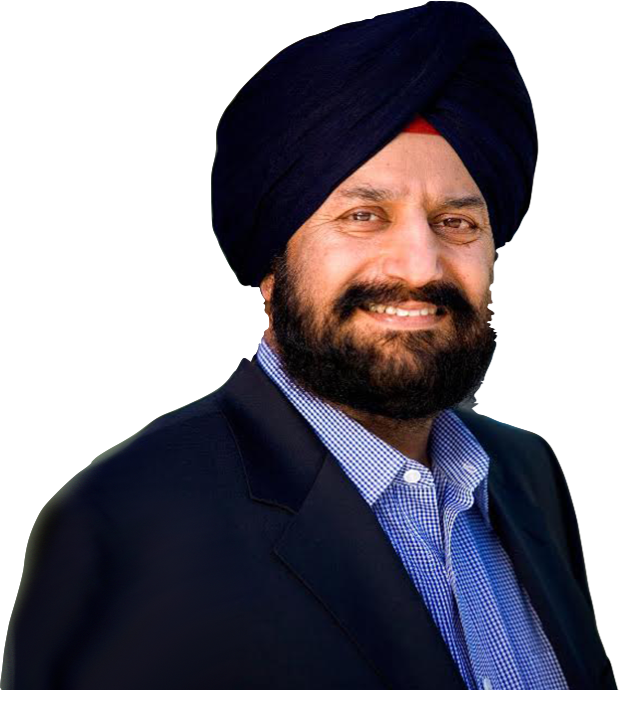
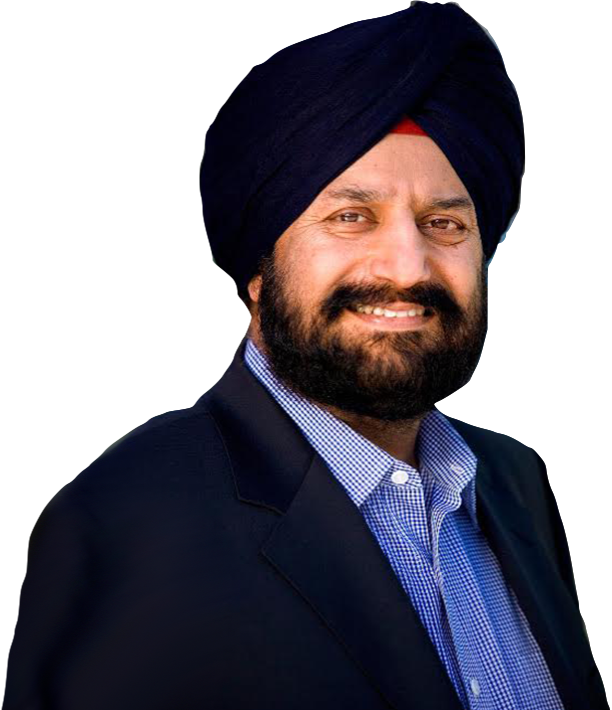
Fixed photo

diff --git a/ssc/ssc.html b/ssc/ssc.html
@@ -28,7 +28,7 @@
        .title {
             color: #fff;
             margin-top: 10px;
-            font-size: 30px;
+            font-size: 28px;
             margin-bottom: 5px;
         }
         .col-xs-4 {
@@ -51,6 +51,7 @@
             padding: 15px;
             padding-bottom: 0;
             padding-top: 0;
+            padding-right: 0;
             background-color: #892522;
         }
         .work-div {
@@ -129,19 +130,19 @@
 <body>
     <div class="subtitle-div">
         <div class="row" style="border-bottom:3px solid #144572;">
-            <div class="col-xs-8" style="padding-left: 15px;">
+            <div class="col-xs-8" id="subtitle-wrd" style="padding-left: 15px; padding-right: 0;">
                 <div class="title-div" style="margin-bottom: 10px;">
                     <p class="title lead sansserif">Satjiv S. Chahil</p>
                 </div>
-                <div class="col-xs-9 banner lighter-text" style=" padding: 0; margin-bottom:2px;">
+                <div class="col-xs-12 banner lighter-text" style=" padding: 0; margin-bottom:2px;">
                     <div>Global Marketing & Innovations Advisory Services</div>
                 </div>
-                <div class="col-xs-9 location-text lighter-text" style="padding: 0; margin-bottom:8px;">
+                <div class="col-xs-12 location-text lighter-text" style="padding: 0; margin-bottom:8px;">
                     <em>Silicon Valley, California</em>
                 </div>
             </div>
-            <div class="col-xs-4" style="padding-bottom:0;">
-                 <img src="photo1.png" style="background: transparent; width: 100%; margin-bottom:0;" alt="SatjivPhoto"/>
+            <div class="col-xs-3" id="subtitle-img" style="padding-bottom:0;">
+                 <img src="photo1.png" style="bottom: 0; left: 0; position: absolute; background: transparent; width: 100%; margin-bottom:0;" alt="SatjivPhoto"/>
             </div>
         </div>
     </div>
@@ -162,15 +163,15 @@
             <button class="btn btn-default work-btn wb-five" type="button" aria-haspopup="true" aria-expanded="false">
                 <span class="glyphicon glyphicon-asterisk" aria-hidden="true"></span>
             </button>
-            <!-- <button class="btn btn-default work-btn wb-six" type="button" aria-haspopup="true" aria-expanded="false">
-                <span class="glyphicon glyphicon-asterisk" aria-hidden="true"></span>
+            <button class="btn btn-default work-btn wb-six" type="button" aria-haspopup="true" aria-expanded="false">
+                <span class="glyphicon glyphicon-phone-alt" aria-hidden="true"></span>
             </button>
             <button class="btn btn-default work-btn wb-seven" type="button" aria-haspopup="true" aria-expanded="false">
-                <span class="glyphicon glyphicon-asterisk" aria-hidden="true"></span>
+                <span class="glyphicon glyphicon-info-sign" aria-hidden="true"></span>
             </button>
             <button class="btn btn-default work-btn wb-eight" type="button" aria-haspopup="true" aria-expanded="false">
                 <span class="glyphicon glyphicon-asterisk" aria-hidden="true"></span>
-            </button> -->
+            </button>
         <!-- </div> -->
     </div>
     <div class="icons-div">
@@ -387,22 +388,27 @@
                 setTimeout(function(){$panel.parent().slideDown()}, 401);
             }
         });
-        $('.wb-one').css({'left': ($(window).width() - $('.wb-one').width()) * (1/5)});
-        $('.wb-two').css({'left': ($(window).width() - $('.wb-two').width()) * ((1/5)*2)});
-        $('.wb-three').css({'left': ($(window).width() - $('.wb-three').width()) * ((1/5)*3)});
-        $('.wb-four').css({'left': ($(window).width() - $('.wb-four').width()) * ((1/5)*4)});
-        $('.wb-five').css({'left': ($(window).width() - $('.wb-five').width()) * ((1/5)*5)});
-        // $('.wb-six').css({'left': ($(window).width() - $('.wb-one').width()) * (-(1/6))});
-        // $('.wb-seven').css({'left': ($(window).width() - $('.wb-one').width()) * ((1/6)*6)});
-        // $('.wb-eight').css({'left': ($(window).width() - $('.wb-one').width()) * (0)});
+        if ($('#subtitle-wrd').height() != $('#subtitle-img').height()) {
+            $('#subtitle-img').css({'height': $('#subtitle-wrd').height()});
+            // $('#subtitle-wrd').css({'height': $('#subtitle-img').height()});
+
+        }
+        $('.wb-one').css({'left': ($(window).width() - $('.wb-one').width()) * (1/6)});
+        $('.wb-two').css({'left': ($(window).width() - $('.wb-two').width()) * ((1/6)*2)});
+        $('.wb-three').css({'left': ($(window).width() - $('.wb-three').width()) * ((1/6)*3)});
+        $('.wb-four').css({'left': ($(window).width() - $('.wb-four').width()) * ((1/6)*4)});
+        $('.wb-five').css({'left': ($(window).width() - $('.wb-five').width()) * ((1/6)*5)});
+        $('.wb-six').css({'left': ($(window).width() - $('.wb-one').width()) * ((1/6)*6)});
+        $('.wb-seven').css({'left': '0px'});
+        $('.wb-eight').css({'left': '-49px'});
         scrollOne();
         scrollTwo();
         scrollThree();
         scrollFour();
         scrollFive();
-        // scrollSix();
-        // scrollSeven();
-        // scrollEight();
+        scrollSix();
+        scrollSeven();
+        scrollEight();
         function scroll(e) {
             var $moveable = e;
             if ($moveable.position().left < $(window).width()) {
@@ -419,7 +425,7 @@
             var $moveable = $('.wb-one');
             if ($moveable.position().left < $(window).width()) {
                 $moveable.css({'visibility': 'visible'});
-                $moveable.animate({'left': '+=' + $(window).width()/5 + 'px'}, 1000, "linear", scrollOne);
+                $moveable.animate({'left': '+=' + $(window).width()/6 + 'px'}, 1000, "linear", scrollOne);
             }
             else {
                 $moveable.css({'visibility': 'hidden'});
@@ -431,7 +437,7 @@
             var $moveable = $('.wb-two');
             if ($moveable.position().left < $(window).width()) {
                 $moveable.css({'visibility': 'visible'});
-                $moveable.animate({'left': '+=' + $(window).width()/5 + 'px'}, 1000, "linear", scrollTwo);
+                $moveable.animate({'left': '+=' + $(window).width()/6 + 'px'}, 1000, "linear", scrollTwo);
             }
             else {
                 $moveable.css({'visibility': 'hidden'});
@@ -443,7 +449,7 @@
             var $moveable = $('.wb-three');
             if ($moveable.position().left < $(window).width()) {
                 $moveable.css({'visibility': 'visible'});
-                $moveable.animate({'left': '+=' + $(window).width()/5 + 'px'}, 1000, "linear", scrollThree);
+                $moveable.animate({'left': '+=' + $(window).width()/6 + 'px'}, 1000, "linear", scrollThree);
             }
             else {
                 $moveable.css({'visibility': 'hidden'});
@@ -455,7 +461,7 @@
             var $moveable = $('.wb-four');
             if ($moveable.position().left < $(window).width()) {
                 $moveable.css({'visibility': 'visible'});
-                $moveable.animate({'left': '+=' + $(window).width()/5 + 'px'}, 1000, "linear", scrollFour);
+                $moveable.animate({'left': '+=' + $(window).width()/6 + 'px'}, 1000, "linear", scrollFour);
             }
             else {
                 $moveable.css({'visibility': 'hidden'});
@@ -467,7 +473,7 @@
             var $moveable = $('.wb-five');
             if ($moveable.position().left < $(window).width()) {
                 $moveable.css({'visibility': 'visible'});
-                $moveable.animate({'left': '+=' + $(window).width()/5 + 'px'}, 1000, "linear", scrollFive);
+                $moveable.animate({'left': '+=' + $(window).width()/6 + 'px'}, 1000, "linear", scrollFive);
             }
             else {
                 $moveable.css({'visibility': 'hidden'});
@@ -476,10 +482,10 @@
             }
         }
         function scrollSix() {
-            var $moveable = $('.wb-one');
+            var $moveable = $('.wb-six');
             if ($moveable.position().left < $(window).width()) {
                 $moveable.css({'visibility': 'visible'});
-                $moveable.animate({'left': $(window).width()/5 + 'px'}, 1000, "linear", scrollSix);
+                $moveable.animate({'left': '+=' + $(window).width()/6 + 'px'}, 1000, "linear", scrollSix);
             }
             else {
                 $moveable.css({'visibility': 'hidden'});
@@ -488,10 +494,10 @@
             }
         }
         function scrollSeven() {
-            var $moveable = $('.wb-one');
+            var $moveable = $('.wb-seven');
             if ($moveable.position().left < $(window).width()) {
                 $moveable.css({'visibility': 'visible'});
-                $moveable.animate({'left': $(window).width()/5 + 'px'}, 1000, "linear", scrollSeven);
+                $moveable.animate({'left': '+=' + $(window).width()/6 + 'px'}, 1000, "linear", scrollSeven);
             }
             else {
                 $moveable.css({'visibility': 'hidden'});
@@ -500,10 +506,10 @@
             }
         }
         function scrollEight() {
-            var $moveable = $('.wb-one');
+            var $moveable = $('.wb-eight');
             if ($moveable.position().left < $(window).width()) {
                 $moveable.css({'visibility': 'visible'});
-                $moveable.animate({'left': $(window).width()/5 + 'px'}, 1000, "linear", scrollEight);
+                $moveable.animate({'left': '+=' + $(window).width()/6 + 'px'}, 1000, "linear", scrollEight);
             }
             else {
                 $moveable.css({'visibility': 'hidden'});
